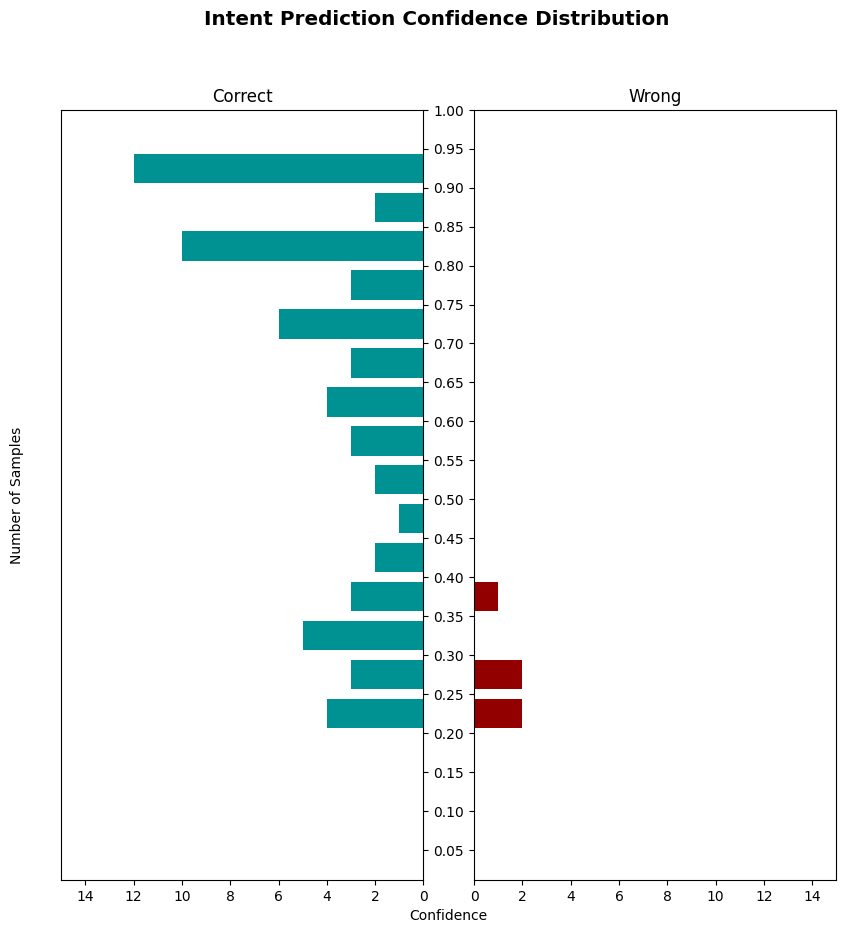
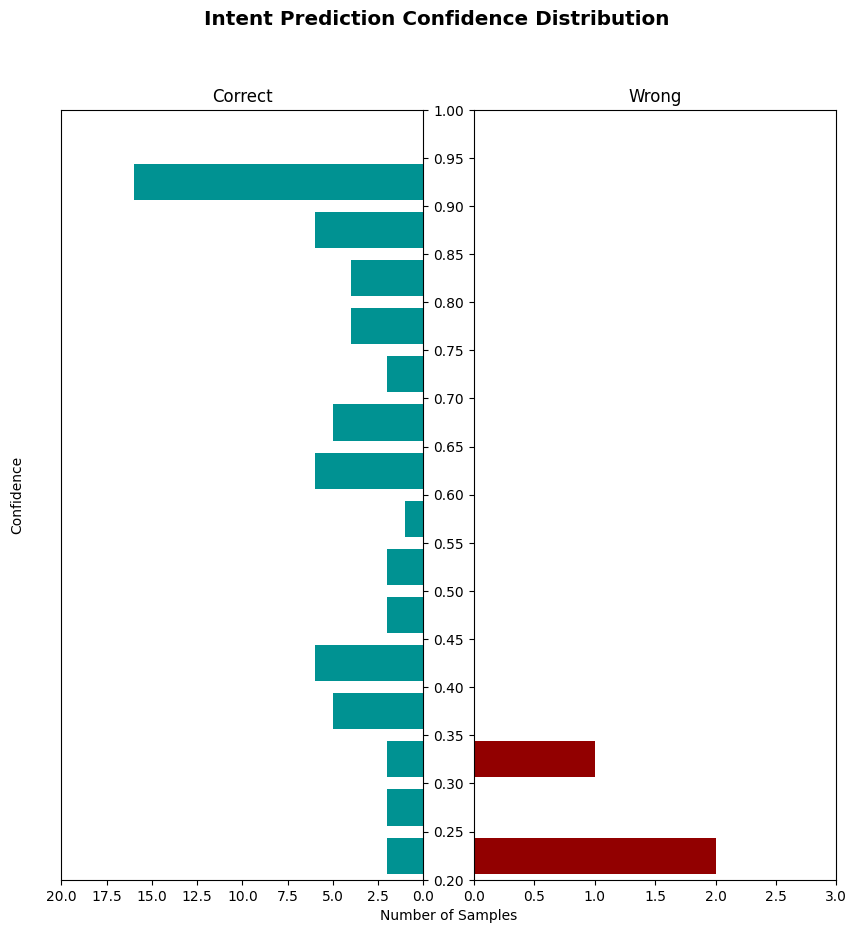
- Change histogram look - Update doc strings/graph examples - Rename plotting function

diff --git a/rasa/utils/plotting.py b/rasa/utils/plotting.py
@@ -116,7 +116,7 @@ def plot_confusion_matrix(
         fig.savefig(output_file, bbox_inches="tight")
 
 
-def plot_comparative_histogram(
+def plot_histogram(
     hist_data: List[List[float]], title: Text, output_file: Optional[Text] = None
 ) -> None:
     """Plot a side-by-side comparative histogram of the confidence distribution (misses and hits).
@@ -137,8 +137,11 @@ def plot_comparative_histogram(
 
     binned_data_sets = [np.histogram(d, bins=bins)[0] for d in hist_data]
 
-    max_xlim = max(binned_data_sets[0] + binned_data_sets[1])
-    max_xlim += int(0.25 * max_xlim)  # padding
+    max_xlims = [max(binned_data_set) for binned_data_set in binned_data_sets]
+    max_xlims = [xlim + np.ceil(0.25 * xlim) for xlim in max_xlims]  # padding
+
+    min_ylim_idx = min([(binned_data_set != 0).argmax(axis=0) for binned_data_set in binned_data_sets])
+    min_ylim = bins[max(0, min_ylim_idx - 1)]  # ensures the lowest non-empty bin shows
 
     centers = 0.5 * (bins + np.roll(bins, 1))[:-1]
     heights = 0.75 * np.diff(bins)
@@ -163,8 +166,8 @@ def plot_comparative_histogram(
     )
     axes[1].set(title="Wrong")
 
-    axes[0].set(yticks=bins, xlim=(0, max_xlim))
-    axes[1].set(yticks=bins, xlim=(0, max_xlim))
+    axes[0].set(yticks=bins, xlim=(0, max_xlims[0]), ylim=(min_ylim, 1.0))
+    axes[1].set(yticks=bins, xlim=(0, max_xlims[1]), ylim=(min_ylim, 1.0))
 
     axes[0].invert_xaxis()
     axes[0].yaxis.tick_right()

diff --git a/rasa/nlu/test.py b/rasa/nlu/test.py
@@ -330,7 +330,7 @@ def plot_attribute_confidences(
         if getattr(r, target_key) != getattr(r, prediction_key)
     ]
 
-    plot_utils.plot_comparative_histogram([pos_hist, neg_hist], title, hist_filename)
+    plot_utils.plot_histogram([pos_hist, neg_hist], title, hist_filename)
 
 
 def plot_entity_confidences(
@@ -365,7 +365,7 @@ def plot_entity_confidences(
         if prediction not in (NO_ENTITY, target)
     ]
 
-    plot_utils.plot_comparative_histogram([pos_hist, neg_hist], title, hist_filename)
+    plot_utils.plot_histogram([pos_hist, neg_hist], title, hist_filename)
 
 
 def evaluate_response_selections(
